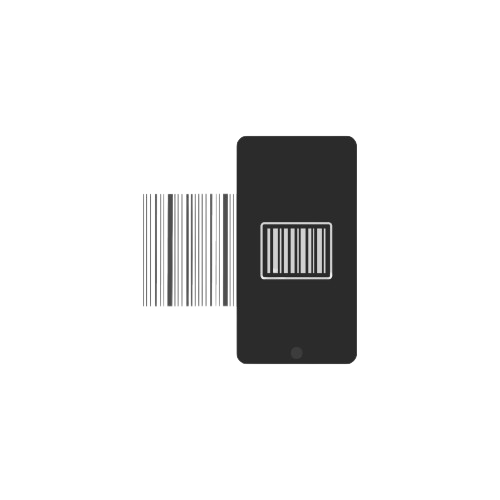
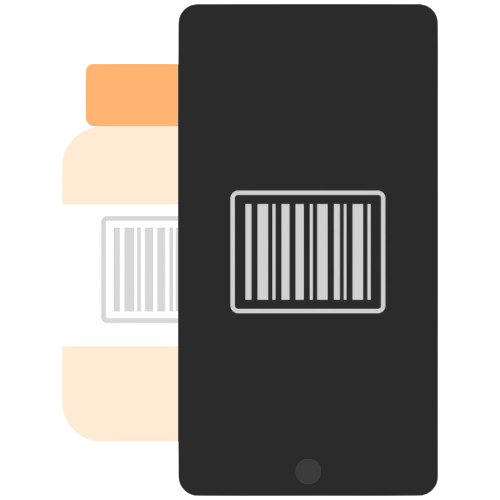
Modifica el diseño de la pantalla de Escaneo (Modal y pantalla escaneo)

diff --git a/MediTrack.Frontend/Vistas/PantallasPrincipales/PantallaScan.xaml b/MediTrack.Frontend/Vistas/PantallasPrincipales/PantallaScan.xaml
@@ -21,81 +21,185 @@
 
         <Grid RowDefinitions="Auto,*,Auto" ColumnDefinitions="*">
 
-            <Border Grid.Row="0" StrokeThickness="0" BackgroundColor="#007AFF">
-                <StackLayout Padding="15,25,15,20" HeightRequest="150">
-                    <Grid ColumnDefinitions="Auto,*,Auto" VerticalOptions="Center">
-                        <Button Grid.Column="0"
-                                Text=" Cancelar"
-                                Command="{Binding CancelarEscaneoCommand}"
-                                TextColor="White"
-                                BackgroundColor="Transparent"
-                                HorizontalOptions="Start"
-                                FontSize="Body"
-                                FontAttributes="Bold"
-                                Padding="0">
-                            <Button.ImageSource>
-                                <FontImageSource FontFamily="MaterialIcons" Glyph="&#xe5cb;" Color="White"
-                                                 Size="22"/>
-                            </Button.ImageSource>
-                        </Button>
-                        <Label Grid.Column="1" Text="Escanear código"
-                               TextColor="White" FontSize="22" FontAttributes="Bold" HorizontalTextAlignment="Center" VerticalTextAlignment="Center"/>
+            <!-- Header -->
+            <Border Grid.Row="0" StrokeThickness="0" BackgroundColor="#3B71FF">
+                <StackLayout Padding="15,25,15,20" HeightRequest="180">
+                    <Grid ColumnDefinitions="Auto,*,Auto" VerticalOptions="Start">
+
+                        <Frame CornerRadius="50" 
+                               WidthRequest="25" 
+                               HeightRequest="25" 
+                               BackgroundColor="#701b48f5" 
+                               HorizontalOptions="Start"
+                               Padding="0"
+                               Margin="10,0">
+                            <Button x:Name="CancelButton"
+                                    Command="{Binding CancelarEscaneoCommand}"
+                                    BackgroundColor="Transparent"
+                                    WidthRequest="50"
+                                    HeightRequest="50"
+                                    Padding="0">
+                                <Button.ImageSource>
+                                    <FontImageSource FontFamily="MaterialIcons" 
+                                                     Glyph="&#xe5cd;" 
+                                                     Color="White" 
+                                                     Size="20"/>
+                                </Button.ImageSource>
+                            </Button>
+                        </Frame>
+
+                        <Label Grid.Column="1" 
+                               Text="Buscar medicamento" 
+                               TextColor="White" 
+                               FontSize="18" 
+                               FontAttributes="Bold" 
+                               HorizontalTextAlignment="Center" 
+                               VerticalTextAlignment="Center"/>
+                        
+                        <BoxView Grid.Column="2" 
+                                WidthRequest="{Binding Source={x:Reference CancelButton}, Path=Width}" />
                     </Grid>
-                    <Label Text="Alinea el código de barras para identificar tu medicamento"
-                           TextColor="White" Opacity="0.9" FontSize="14" HorizontalTextAlignment="Center" Margin="0,8,0,0"/>
-                    <!-- Añadir indicador de estado -->
-                    <Label Text="{Binding ScanResultText}"
-                           TextColor="White" Opacity="0.8" FontSize="12" 
-                           HorizontalTextAlignment="Center" Margin="0,4,0,0"/>
+
+                    <Label HorizontalTextAlignment="Center"
+                           LineHeight="1.4"
+                           Opacity="0.85"
+                           TextColor="#dcdcdc"
+                           Margin="0,45,0,0">
+                        <Label.FormattedText>
+                            <FormattedString>
+                                <Span Text="Alinea el código de barras para identificar" FontSize="15"/>
+                                <Span Text="&#10;"/>
+                                <Span Text="tu medicamento" FontSize="15"/>
+                            </FormattedString>
+                        </Label.FormattedText>
+                    </Label>
                 </StackLayout>
             </Border>
 
-            <Border Grid.Row="1"
-                    Stroke="White" 
-                    StrokeThickness="2"
-                    WidthRequest="300" 
-                    HeightRequest="200"
-                    HorizontalOptions="Center" 
-                    VerticalOptions="Center"
-                    Opacity="0.3">
-                <Border.StrokeShape>
-                    <RoundRectangle CornerRadius="10" />
-                </Border.StrokeShape>
-                <!-- Añadir texto de ayuda dentro del marco -->
-                <Label Text="Coloca el código aquí"
-                       TextColor="White"
-                       FontSize="14"
-                       HorizontalTextAlignment="Center"
-                       VerticalTextAlignment="Center"
-                       Opacity="1"/>
-            </Border>
 
+            <!-- Scanning Area -->
+            <Grid Grid.Row="1" HorizontalOptions="Center" VerticalOptions="Center">
 
-            <Border Grid.Row="2" StrokeThickness="0" BackgroundColor="#3b71ff">
-                <StackLayout Padding="15,55,15,25" HeightRequest="150">
-                    <Button Text="Buscar medicamento manualmente"
-                            Command="{Binding BuscarManualCommand}" 
-                            TextColor="White"
-                            FontSize="Body"
-                            FontAttributes="Bold"
-                            BackgroundColor="Transparent"
-                            HorizontalOptions="Center"/>
+                <!-- Marco de escaneo con esquinas -->
+                <Grid WidthRequest="280" HeightRequest="280">
+                    <!-- Esquina superior izquierda -->
+                    <Border HorizontalOptions="Start" VerticalOptions="Start"
+                            WidthRequest="40" HeightRequest="40"
+                            Stroke="White" StrokeThickness="3"
+                            BackgroundColor="Transparent">
+                        <Border.StrokeShape>
+                            <RoundRectangle CornerRadius="8,0,0,0" />
+                        </Border.StrokeShape>
+                    </Border>
+
+                    <!-- Esquina superior derecha -->
+                    <Border HorizontalOptions="End" VerticalOptions="Start"
+                            WidthRequest="40" HeightRequest="40"
+                            Stroke="White" StrokeThickness="3"
+                            BackgroundColor="Transparent">
+                        <Border.StrokeShape>
+                            <RoundRectangle CornerRadius="0,8,0,0" />
+                        </Border.StrokeShape>
+                    </Border>
+
+                    <!-- Esquina inferior izquierda -->
+                    <Border HorizontalOptions="Start" VerticalOptions="End"
+                            WidthRequest="40" HeightRequest="40"
+                            Stroke="White" StrokeThickness="3"
+                            BackgroundColor="Transparent">
+                        <Border.StrokeShape>
+                            <RoundRectangle CornerRadius="0,0,0,8" />
+                        </Border.StrokeShape>
+                    </Border>
+
+                    <!-- Esquina inferior derecha -->
+                    <Border HorizontalOptions="End" VerticalOptions="End"
+                            WidthRequest="40" HeightRequest="40"
+                            Stroke="White" StrokeThickness="3"
+                            BackgroundColor="Transparent">
+                        <Border.StrokeShape>
+                            <RoundRectangle CornerRadius="0,0,8,0" />
+                        </Border.StrokeShape>
+                    </Border>
+
+                    <!-- Texto de ayuda -->
+                    <Label Text="Coloca el código aquí"
+                           TextColor="White"
+                           FontSize="14"
+                           HorizontalTextAlignment="Center"
+                           VerticalTextAlignment="Center"
+                           Opacity="0.7"/>
+                </Grid>
+
+                <!-- Indicador de escaneo -->
+                <StackLayout IsVisible="{Binding IsScanning}" 
+                             HorizontalOptions="Center" 
+                             VerticalOptions="Center"
+                             Margin="0,320,0,0">
+
+                    <!-- Animación de escaneo -->
+                    <ActivityIndicator IsRunning="{Binding IsScanning}"
+                                       Color="#3B71FF"
+                                       WidthRequest="30"
+                                       HeightRequest="30"/>
+
+                    <Label x:Name="ScanningLabel" 
+                           Text="Escaneando..."
+                           TextColor="White"
+                           FontSize="14"
+                           FontAttributes="Bold"
+                           HorizontalTextAlignment="Center"
+                           Margin="0,8,0,0"
+                           Opacity="0.9"/>
                 </StackLayout>
-               
+            </Grid>
 
+
+            <!-- Footer -->
+            <Border Grid.Row="2" StrokeThickness="0" BackgroundColor="#3B71FF">
+                <StackLayout Padding="15,45,15,25" HeightRequest="180">
+                    <VerticalStackLayout HorizontalOptions="Center" Spacing="5">
+                        <!-- Botón circular con lupa -->
+                        <Frame CornerRadius="30" 
+                               WidthRequest="50" 
+                               HeightRequest="50" 
+                               BackgroundColor="#701b48f5"
+                               HorizontalOptions="Center">
+                            <Button Command="{Binding BuscarManualCommand}"
+                                    BackgroundColor="Transparent"
+                                    Padding="0"
+                                    WidthRequest="60"
+                                    HeightRequest="60">
+                                <Button.ImageSource>
+                                    <FontImageSource FontFamily="MaterialIcons" 
+                                       Glyph="" 
+                                       Color="#FFFFFF" 
+                                       Size="24"/>
+                                </Button.ImageSource>
+                            </Button>
+                        </Frame>
+
+                        <!-- Texto debajo -->
+                        <Label Text="Búsqueda manual"
+                   TextColor="#FFFFFF"
+                   FontSize="14"
+                   FontAttributes="Bold"
+                   HorizontalOptions="Center"/>
+                    </VerticalStackLayout>
+                </StackLayout>
             </Border>
+
         </Grid>
 
+        <!-- Loading overlay -->
         <Border IsVisible="{Binding IsBusy}"
                 BackgroundColor="#80000000"
                 StrokeThickness="0">
-
             <ActivityIndicator IsRunning="{Binding IsBusy}"
                                HorizontalOptions="Center"
                                VerticalOptions="Center"
                                Color="White"/>
         </Border>
-
 
     </Grid>
 </ContentPage>

diff --git a/MediTrack.Frontend/Popups/InstruccionesEscaneoPopup.xaml b/MediTrack.Frontend/Popups/InstruccionesEscaneoPopup.xaml
@@ -5,21 +5,24 @@
                x:Class="MediTrack.Frontend.Popups.InstruccionesEscaneoPopup"
                Color="Transparent">
 
-    <Frame CornerRadius="20" Padding="25" Margin="25" BackgroundColor="White"
-           VerticalOptions="Center" HorizontalOptions="Center"
-           WidthRequest="320">
+    <Frame CornerRadius="10" Padding="10" Margin="30" BackgroundColor="White"
+           VerticalOptions="Center" 
+           HorizontalOptions="Center"
+           WidthRequest="280">
 
         <VerticalStackLayout Spacing="10">
-            <Image Source="barcode_scan_icon.png" HeightRequest="210"
-                   WidthRequest="210"
+            <Image Source="barcode_scan_icon.png" 
+                   HeightRequest="180"
+                   WidthRequest="150"
                    HorizontalOptions="Center"/>
-            <Label Text="Alinea el código de barras dentro del recuadro para identificar tu medicamento."
-                   HorizontalTextAlignment="Center"
-                   TextColor="{StaticResource ColorTextoSecundario}"
-                   FontSize="Body"/>
+
             <Button Text="Entendido"
+                    FontAttributes="Bold"
                     Clicked="Entendido_Clicked"
-                    BackgroundColor="{StaticResource ColorPrimario}" />
+                    Padding="15, 10"
+                    Margin="15, 5"
+                    BackgroundColor="#FF8C3B"/>
+
         </VerticalStackLayout>
 
     </Frame>

diff --git a/MediTrack.Frontend/ViewModels/PantallasPrincipales/ScanViewModel.cs b/MediTrack.Frontend/ViewModels/PantallasPrincipales/ScanViewModel.cs
@@ -15,6 +15,7 @@ namespace MediTrack.Frontend.ViewModels.PantallasPrincipales
         [ObservableProperty] private bool _isProcessingResult;
         [ObservableProperty] private string _scanResultText;
         [ObservableProperty] private bool _isBusy;
+        [ObservableProperty] private bool _isScanning = false;
 
         public BarcodeReaderOptions BarcodeReaderOptions { get; private set; }
         private readonly INavigationService _navigationService;
@@ -130,6 +131,7 @@ namespace MediTrack.Frontend.ViewModels.PantallasPrincipales
             Debug.WriteLine("Reactivando escaneo...");
             IsProcessingResult = false; // Asegurar que no esté bloqueado
             IsDetecting = true;
+            IsScanning = false;
             ScanResultText = "Apunte la cámara al código de barras...";
         }
 
@@ -138,6 +140,7 @@ namespace MediTrack.Frontend.ViewModels.PantallasPrincipales
         {
             Debug.WriteLine("Deteniendo escaneo...");
             IsDetecting = false;
+            IsScanning = false;
         }
 
         private async Task EjecutarCancelarEscaneo()
